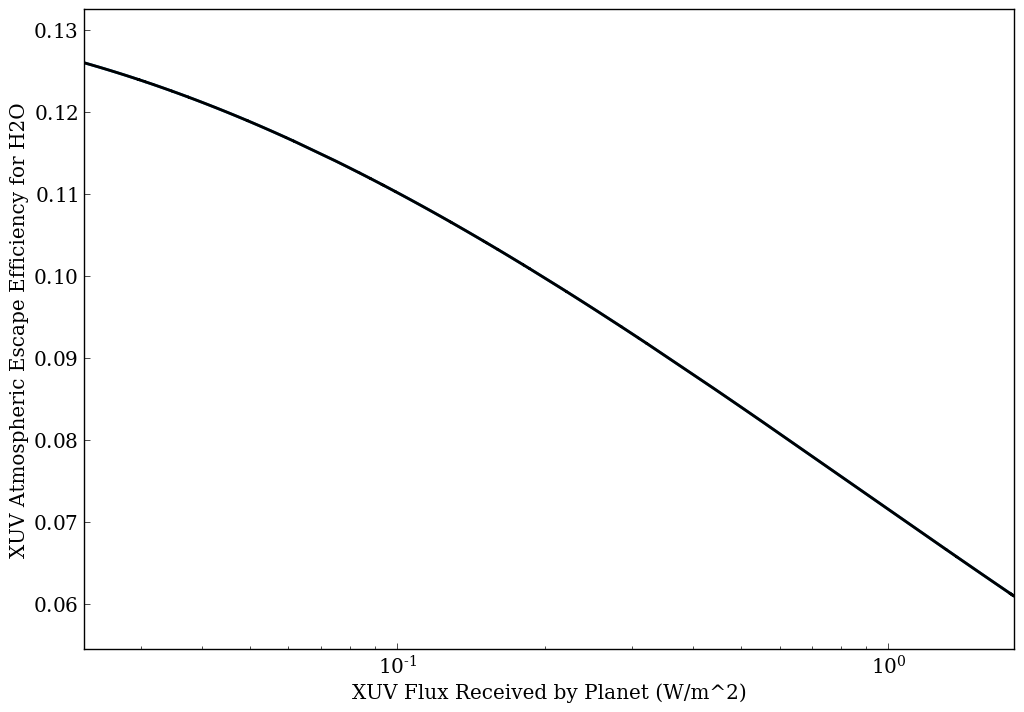
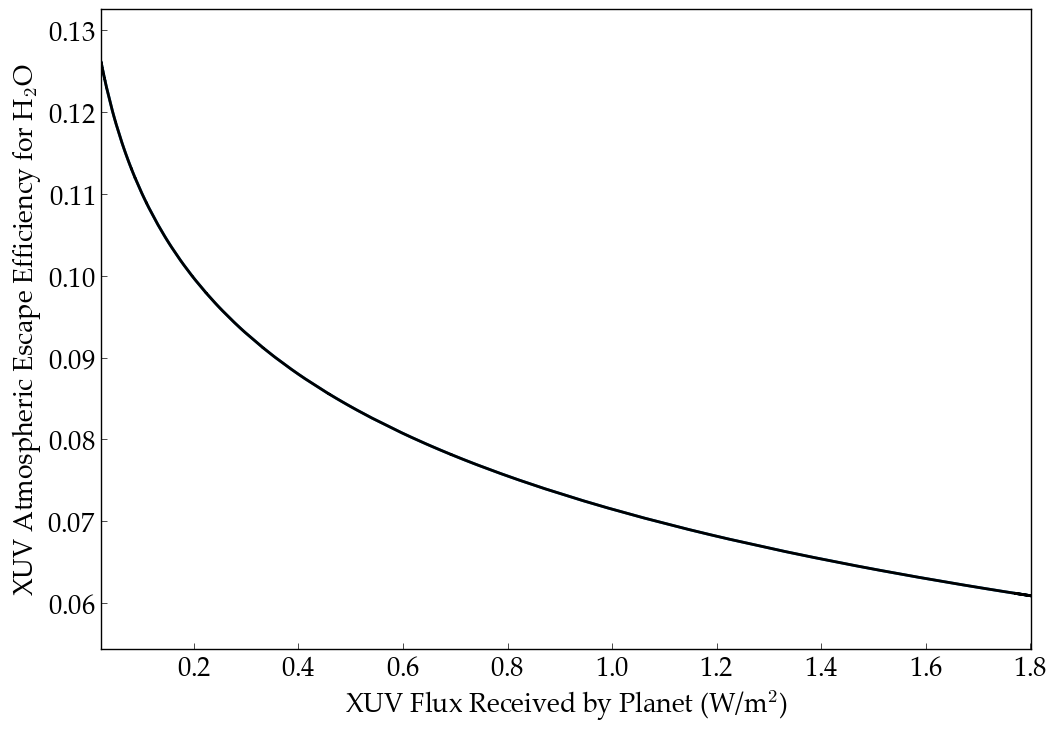
Tidied up the Bolmont scaling plot.

diff --git a/examples/VenusWaterLoss/BolmontScaling/makeplot.py b/examples/VenusWaterLoss/BolmontScaling/makeplot.py
@@ -5,6 +5,8 @@ import numpy as np
 import vplot as vpl
 import sys
 
+pl.rcParams.update({'font.size': 16})
+
 # Check correct number of arguments
 if (len(sys.argv) != 2):
     print('ERROR: Incorrect number of arguments.')
@@ -32,11 +34,10 @@ ax.plot(FXUV[0], eps[0], color = 'black')
 
 
 # Tweaks
-ax.set_xlabel('XUV Flux Received by Planet (W/m^2)')
-ax.set_ylabel('XUV Atmospheric Escape Efficiency for H2O')
-ax.set_xscale('log')
+ax.set_xlabel('XUV Flux Received by Planet (W/m$^2$)')
+ax.set_ylabel('XUV Atmospheric Escape Efficiency for H$_2$O')
 
 if (sys.argv[1] == 'pdf'):
-    fig.savefig('BolmontScaling.pdf', bbox_inches="tight")
+    fig.savefig('../BolmontScaling.pdf', bbox_inches="tight")
 if (sys.argv[1] == 'png'):
-    fig.savefig('BolmontScaling.png', bbox_inches="tight")
+    fig.savefig('../BolmontScaling.png', bbox_inches="tight")
